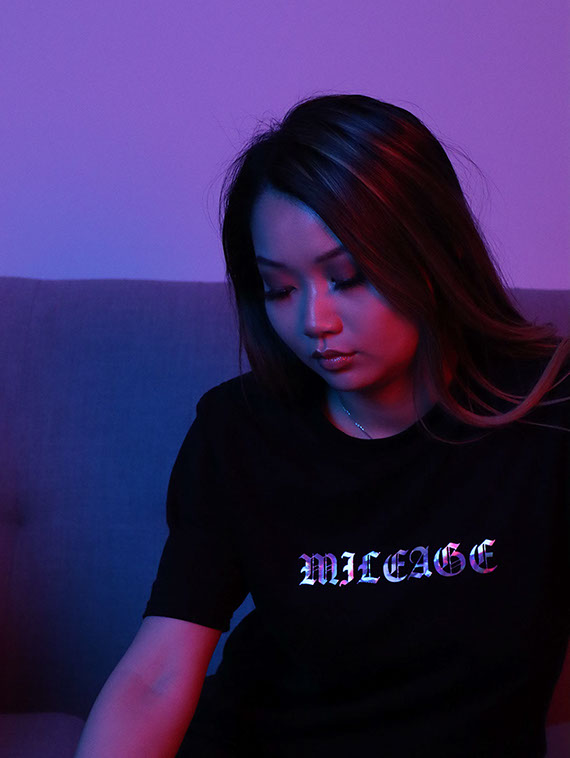
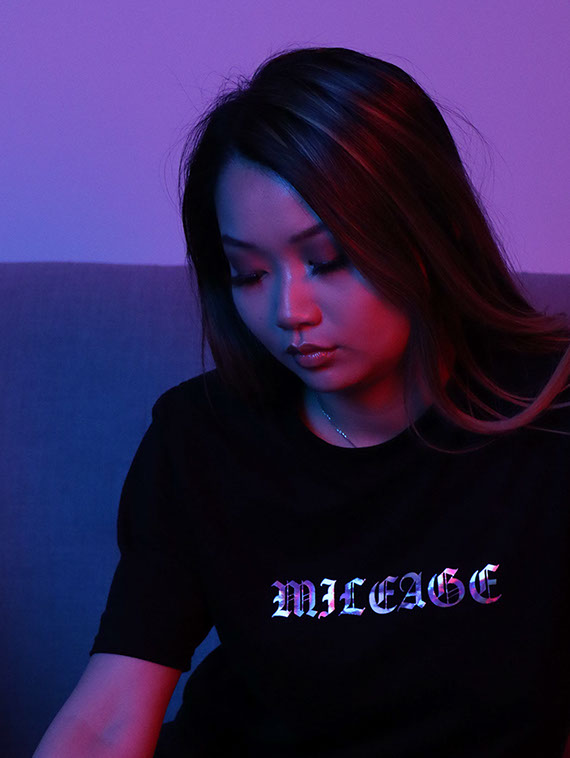
Home Fix

diff --git a/css/index.css b/css/index.css
@@ -1,1 +1,1 @@
-.version.index{color:#0000EA;background-color:#AF20EF;}#page{background-color:transparent;background-image:none;border-width:0px;z-index:1;width:100%;margin-left:auto;border-color:#000000;margin-right:auto;}#u353{position:relative;z-index:2;}#u1347{z-index:22;position:relative;height:1px;}#pu6452{z-index:4;}#u6452{margin-right:-10000px;position:relative;z-index:4;}#u1146-4{position:relative;z-index:5;}#u1163{z-index:9;position:relative;height:3px;}.ie #u1163{-ms-filter:"progid:DXImageTransform.Microsoft.Alpha(Opacity=1)";background-color:#FFFFFF;filter:alpha(opacity=1);opacity:0.01;}#u1163.MuseLinkActive{min-height:0px;margin-top:0px;margin-right:0px;margin-left:0%;height:3px;}#u6436{margin-right:-10000px;position:relative;z-index:10;}#u1078-4{position:relative;z-index:11;}#u1186{z-index:15;position:relative;height:3px;}.ie #u1186{-ms-filter:"progid:DXImageTransform.Microsoft.Alpha(Opacity=1)";background-color:#FFFFFF;filter:alpha(opacity=1);opacity:0.01;}#u1186.MuseLinkActive{min-height:0px;margin-top:0px;margin-right:0px;margin-left:0%;height:3px;}#u6444{margin-right:-10000px;position:relative;z-index:16;}#u1112-4{position:relative;z-index:17;}#u1220{z-index:21;position:relative;height:3px;}.ie #u1220{-ms-filter:"progid:DXImageTransform.Microsoft.Alpha(Opacity=1)";background-color:#FFFFFF;filter:alpha(opacity=1);opacity:0.01;}#u1220.MuseLinkActive{min-height:0px;margin-top:0px;margin-right:0px;margin-left:0%;height:3px;}.ie #u1163.MuseLinkActive,.ie #u1186.MuseLinkActive,.ie #u1220.MuseLinkActive{-ms-filter:"progid:DXImageTransform.Microsoft.Alpha(Opacity=100)";filter:alpha(opacity=100);opacity:1;}.SSFirstButton,.SSPreviousButton,.SSNextButton,.SSLastButton,.SSSlideLink,.SSCloseButton{cursor:pointer;}.SSSlideLoading{background:url("../images/loading.gif?crc=3815509949") no-repeat center center;}#u12811-7{background-color:transparent;position:relative;z-index:52;font-weight:bold;margin-right:-10000px;font-family:Helvetica, Helvetica Neue, Arial, sans-serif;letter-spacing:0px;text-align:center;color:#FFFFFF;font-style:italic;}#u7221{background-color:#FFFFFF;z-index:51;position:relative;height:1px;}#u6995-8{font-family:Helvetica, Helvetica Neue, Arial, sans-serif;min-height:77px;background-color:transparent;color:#FFFFFF;z-index:43;position:relative;text-align:center;}#u6995-2{font-size:16px;font-style:italic;}#u6995-5{font-size:16px;}#u6995-3{font-weight:bold;}#u6995-6{font-size:14px;font-style:italic;}#u2530-4{margin-right:-10000px;margin-left:50%;position:relative;z-index:23;}#u2565-4{margin-right:-10000px;margin-left:50%;position:relative;z-index:27;}#u2607-4{margin-right:-10000px;width:80px;margin-left:50%;position:relative;z-index:31;}.html{background-color:#080808;}body{position:relative;}@media (min-width: 769px), print{#muse_css_mq{background-color:#FFFFFF;}#bp_infinity.active{display:block;}#page{min-height:863px;padding-bottom:37px;max-width:1080px;}#pu353{z-index:2;padding-bottom:0px;margin-right:-10000px;width:90.65%;}#u353{width:864px;margin-left:55.16%;left:-433px;}#u1347{top:-1px;margin-bottom:-1px;width:99.9%;left:0%;margin-left:5.21%;}#pu6452{margin-top:25px;width:70.18%;left:0%;margin-left:20.13%;}#u6452{width:160px;margin-top:1px;}#u1163{width:160px;top:-3px;margin-bottom:-3px;}#u6436{width:160px;margin-top:1px;left:38.29%;}#u1186{width:160px;top:-3px;margin-bottom:-3px;}#u6444{width:160px;left:76.72%;}#u1146-4,#u1078-4,#u1112-4{width:159px;min-height:26px;margin-left:0.63%;}#u1220{width:160px;top:-3px;margin-bottom:-3px;}#u1163.MuseLinkActive,#u1186.MuseLinkActive,#u1220.MuseLinkActive{margin-bottom:-3px;width:160px;}#pslideshowu14843{z-index:35;margin-top:31px;width:100%;margin-left:5.16%;}#slideshowu14843{z-index:35;position:relative;margin-right:-10000px;width:100%;margin-left:0%;left:0.49999999999992184px;}#u14850{position:absolute;background-color:transparent;width:100%;}#u14850popup{z-index:36;height:575px;margin-right:-10000px;width:100%;}#u14851{z-index:37;min-height:5px;border-width:0px;border-color:transparent;background-color:#4F4F4F;margin-right:-10000px;position:relative;width:100%;}#u15001{z-index:39;min-height:5px;border-width:0px;border-color:transparent;background-color:#4F4F4F;margin-right:-10000px;position:relative;width:100%;}#u15076{z-index:41;min-height:5px;border-width:0px;border-color:transparent;background-color:#4F4F4F;margin-right:-10000px;position:relative;width:100%;}#u14851_img,#u15001_img,#u15076_img{width:100%;}#u12811-7{width:882px;min-height:162px;line-height:53px;font-size:44px;margin-top:227px;margin-left:50%;left:-441.50000000000006px;}#u7221{margin-top:42px;width:99.9%;left:0%;margin-left:5.21%;}#u6995-8{width:580px;margin-top:38px;margin-left:55.16%;left:-291px;}#u6995-2,#u6995-5{line-height:19px;}.css_verticalspacer .verticalspacer{height:calc(100vh - 981px);}#u2530-4{width:95px;min-height:17px;margin-top:33px;left:-256px;}#u2565-4{width:162px;min-height:17px;margin-top:33px;left:-77px;}#u2607-4{min-height:17px;margin-top:33px;left:176px;}.verticalspacer{min-height:1px;}}@media (min-width: 569px) and (max-width: 768px){#muse_css_mq{background-color:#000300;}#bp_768.active{display:block;}#page{min-height:477px;padding-bottom:23px;max-width:768px;}#pu353{z-index:2;padding-bottom:0px;margin-right:-10000px;width:112.5%;}#u353{width:864px;margin-left:44.45%;left:-432px;}#u1347{top:-1px;margin-bottom:-1px;width:80.56%;left:0%;margin-left:4.17%;}#pu6452{margin-top:17px;width:60.07%;left:0%;margin-left:14.47%;}#u6452{width:131px;}#u1163{width:130px;top:-3px;margin-bottom:-3px;}#u6436{width:131px;left:37.38%;}#u1186{width:130px;top:-3px;margin-bottom:-3px;}#u6444{width:131px;left:74.76%;}#u1146-4,#u1078-4,#u1112-4{width:130px;min-height:24px;margin-left:0.77%;}#u1220{width:130px;top:-3px;margin-bottom:-3px;}#u1163.MuseLinkActive,#u1186.MuseLinkActive,#u1220.MuseLinkActive{margin-bottom:-3px;width:130px;}#pslideshowu14843{z-index:35;margin-top:41px;width:80.56%;margin-left:4.17%;}#slideshowu14843{z-index:35;position:relative;margin-right:-10000px;width:100%;margin-left:0%;left:-1.4210854715202004e-14px;}#u14850{position:absolute;background-color:transparent;width:100%;}#u14850popup{z-index:36;height:409px;margin-right:-10000px;width:100%;}#u14851{z-index:37;min-height:5px;border-width:0px;border-color:transparent;background-color:#4F4F4F;margin-right:-10000px;position:relative;width:100%;}#u15001{z-index:39;min-height:5px;border-width:0px;border-color:transparent;background-color:#4F4F4F;margin-right:-10000px;position:relative;width:100%;}#u15076{z-index:41;min-height:5px;border-width:0px;border-color:transparent;background-color:#4F4F4F;margin-right:-10000px;position:relative;width:100%;}#u14851_img,#u15001_img,#u15076_img{width:100%;}#u12811-7{width:627px;min-height:116px;line-height:38px;font-size:32px;margin-top:156px;margin-left:50%;left:-314px;}#u7221{margin-top:39px;width:80.56%;margin-left:4.17%;left:0px;}#u6995-8{width:580px;margin-top:38px;margin-left:44.45%;left:-290px;}#u6995-2,#u6995-5{line-height:19px;}.css_verticalspacer .verticalspacer{height:calc(100vh - 787px);}#u2530-4{width:95px;min-height:15px;margin-top:24px;left:-242px;}#u2565-4{width:146px;min-height:15px;margin-top:24px;left:-69px;}#u2607-4{min-height:15px;margin-top:24px;left:162px;}body{overflow-x:hidden;}.verticalspacer{min-height:1px;}}@media (min-width: 415px) and (max-width: 568px){#muse_css_mq{background-color:#000238;}#bp_568.active{display:block;}#page{min-height:466px;padding-bottom:34px;max-width:568px;}#pu353{z-index:2;padding-bottom:0px;margin-right:-10000px;margin-top:10px;width:114.09%;}#u353{width:648px;margin-left:43.83%;left:-324px;}#u1347{margin-top:9px;width:79.33%;left:0%;margin-left:4.17%;}#pu6452{margin-top:17px;width:68.68%;left:0%;margin-left:9.57%;}#u6452,#u1163{width:97px;}#u6436{width:97px;left:39.11%;}#u1186{width:97px;}#u6444{width:97px;left:78.21%;}#u1146-4,#u1078-4,#u1112-4{width:97px;min-height:17px;}#u1220{width:97px;}#u1163.MuseLinkActive,#u1186.MuseLinkActive,#u1220.MuseLinkActive{margin-bottom:0px;width:97px;}#pslideshowu15272{z-index:35;margin-top:16px;width:78.09%;margin-left:4.79%;}#slideshowu15272{z-index:35;position:relative;margin-right:-10000px;width:100%;margin-left:0%;left:1.0658141036401503e-14px;}#u15279{position:absolute;background-color:transparent;width:100%;}#u15279popup{z-index:36;height:674px;margin-right:-10000px;width:100%;}#u15280{z-index:37;min-height:5px;border-width:0px;border-color:transparent;background-color:#4F4F4F;margin-right:-10000px;position:relative;width:100%;}#u15280_img{width:100.2%;}#u15423{z-index:39;min-height:5px;border-width:0px;border-color:transparent;background-color:#4F4F4F;margin-right:-10000px;position:relative;width:56.13%;}#u15510{z-index:41;min-height:5px;border-width:0px;border-color:transparent;background-color:#4F4F4F;margin-right:-10000px;position:relative;width:56.13%;}#u15423_img,#u15510_img{width:100%;}#u12811-7{width:464px;min-height:155px;line-height:38px;font-size:32px;margin-top:271px;margin-left:50%;left:-232px;}#u7221{margin-top:38px;width:79.33%;margin-left:4.17%;left:0px;}#u6995-8{width:368px;margin-top:28px;margin-left:43.83%;left:-184px;}#u6995-2,#u6995-5{line-height:19px;}.css_verticalspacer .verticalspacer{height:calc(100vh - 1012px);}#u2530-4{width:95px;min-height:13px;margin-top:15px;left:-172px;}#u2565-4{width:114px;min-height:13px;margin-top:15px;left:-58px;}#u2607-4{min-height:13px;margin-top:15px;left:82px;}body{overflow-x:hidden;}.verticalspacer{min-height:1px;}}@media (min-width: 376px) and (max-width: 414px){#muse_css_mq{background-color:#00019e;}#bp_414.active{display:block;}#page{min-height:726.6574074074074px;padding-bottom:0px;max-width:414px;}#page_position_content{padding-top:11px;padding-bottom:33px;width:100%;}#u353{width:434px;margin-left:50%;left:-217px;}#u1347{margin-top:9px;width:90.34%;margin-left:4.84%;}#pu6452{margin-top:17px;width:86.24%;margin-left:6.77%;}#u6452,#u1163{width:97px;}#u6436{width:97px;left:36.42%;}#u1186{width:97px;}#u6444{width:97px;left:72.83%;}#u1146-4,#u1078-4,#u1112-4{width:97px;min-height:17px;}#u1220{width:97px;}#u1163.MuseLinkActive,#u1186.MuseLinkActive,#u1220.MuseLinkActive{margin-bottom:0px;width:97px;}#pslideshowu15272{z-index:35;margin-top:22px;width:89.14%;margin-left:5.44%;}#slideshowu15272{z-index:35;position:relative;margin-right:-10000px;width:100%;margin-left:0%;left:-0.5000000000000071px;}#u15279{position:absolute;background-color:transparent;width:100%;}#u15279popup{z-index:36;height:491px;margin-right:-10000px;width:100%;}#u15280{z-index:37;min-height:5px;border-width:0px;border-color:transparent;background-color:#4F4F4F;margin-right:-10000px;position:relative;width:100%;}#u15423{z-index:39;min-height:5px;border-width:0px;border-color:transparent;background-color:#4F4F4F;margin-right:-10000px;position:relative;width:100%;}#u15510{z-index:41;min-height:5px;border-width:0px;border-color:transparent;background-color:#4F4F4F;margin-right:-10000px;position:relative;width:100%;}#u15280_img,#u15423_img,#u15510_img{width:100%;}#u12811-7{width:338px;min-height:119px;line-height:29px;font-size:24px;margin-top:197px;margin-left:50%;left:-169.5px;}#u7221{margin-top:31px;width:90.34%;margin-left:4.84%;}#u6995-8{margin-top:28px;width:74.16%;margin-left:12.81%;}#u6995-2,#u6995-5{line-height:0px;}#u6995,#u6995-3,#u6995-4{font-size:14px;line-height:17px;}#pu2530-4{z-index:23;margin-top:33px;width:80.68%;margin-left:9.67%;}#u2530-4{width:95px;min-height:13px;left:-172px;}#u2565-4{width:114px;min-height:13px;left:-57.99999999999999px;}#u2607-4{min-height:13px;left:82px;}body{overflow-x:hidden;}}@media (min-width: 321px) and (max-width: 375px){#muse_css_mq{background-color:#000177;}#bp_375.active{display:block;}#page{min-height:717px;padding-bottom:19px;max-width:375px;}#pu353{z-index:2;padding-bottom:0px;margin-right:-10000px;margin-top:11px;width:115.74%;}#u353{width:434px;margin-left:43.21%;left:-218px;}#u1347{margin-top:9px;width:78.35%;left:0%;margin-left:4.15%;}#pu6452{margin-top:17px;width:75.58%;left:0%;margin-left:5.3%;}#u6452,#u1163{width:92px;}#u6436{width:92px;left:35.98%;}#u1186{width:92px;}#u6444{width:92px;left:71.96%;}#u1146-4,#u1078-4,#u1112-4{width:92px;min-height:17px;}#u1220{width:92px;}#u1163.MuseLinkActive,#u1186.MuseLinkActive,#u1220.MuseLinkActive{margin-bottom:0px;width:92px;}#pslideshowu15272{z-index:35;margin-top:16px;width:76.96%;}#slideshowu15272{z-index:35;position:relative;margin-right:-10000px;width:100%;left:0%;margin-left:5.09%;}#u15279{position:absolute;background-color:transparent;width:100%;margin-left:0%;left:0px;}#u15279popup{z-index:36;height:445px;margin-right:-10000px;width:100%;margin-left:0%;}#u15280{z-index:37;min-height:5px;border-width:0px;border-color:transparent;background-color:#4F4F4F;margin-right:-10000px;position:relative;width:100%;margin-left:0%;left:0px;}#u15280_img{width:100.3%;}#u15423{z-index:39;min-height:5px;border-width:0px;border-color:transparent;background-color:#4F4F4F;margin-right:-10000px;position:relative;width:59.89%;margin-left:20.06%;left:-67px;}#u15510{z-index:41;min-height:5px;border-width:0px;border-color:transparent;background-color:#4F4F4F;margin-right:-10000px;position:relative;width:59.89%;margin-left:20.06%;left:-67px;}#u15423_img,#u15510_img{width:100%;}#u12811-7{width:306px;min-height:106px;line-height:26px;font-size:22px;margin-top:180px;margin-left:56.14%;left:-153px;}#u7221{margin-top:27px;width:78.12%;left:0%;margin-left:4.15%;}#u6995-8{margin-top:27px;width:72.59%;left:0%;margin-left:6.69%;}#u6995-2,#u6995-5{line-height:0px;}#u6995,#u6995-3,#u6995-4{font-size:14px;line-height:17px;}.css_verticalspacer .verticalspacer{height:calc(100vh - 739px);}#u2530-4{width:95px;min-height:13px;margin-top:18px;left:-161px;}#u2565-4{width:120px;min-height:13px;margin-top:18px;left:-57px;}#u2607-4{min-height:13px;margin-top:18px;left:81px;}body{overflow-x:hidden;}.verticalspacer{min-height:1px;}}@media (max-width: 320px){#muse_css_mq{background-color:#000140;}#bp_320.active{display:block;}#page{min-height:550px;padding-bottom:18px;max-width:320px;}#pu353{z-index:2;margin-right:-10000px;margin-top:11px;width:135.63%;}#u353{width:434px;margin-left:36.87%;left:-217px;}#u1347{margin-top:9px;width:66.83%;left:0%;margin-left:3.46%;}#pu6452{margin-top:17px;width:65.9%;left:0%;margin-left:3.92%;}#u6452,#u1163{width:85px;}#u6436{width:85px;left:35.32%;}#u1186{width:85px;}#u6444{width:85px;left:70.28%;}#u1146-4,#u1078-4,#u1112-4{width:85px;min-height:17px;}#u1220{width:85px;}#u1163.MuseLinkActive,#u1186.MuseLinkActive,#u1220.MuseLinkActive{margin-bottom:0px;width:85px;}#pslideshowu15272{z-index:35;margin-top:16px;width:65.67%;margin-left:4.04%;}#slideshowu15272{z-index:35;position:relative;margin-right:-10000px;width:100%;margin-left:0%;left:-0.4999999999999858px;}#u15279{position:absolute;background-color:transparent;width:100%;}#u15279popup{z-index:36;height:379px;margin-right:-10000px;width:100%;}#u15280{z-index:37;min-height:5px;border-width:0px;border-color:transparent;background-color:#4F4F4F;margin-right:-10000px;position:relative;width:100%;}#u15423{z-index:39;min-height:5px;border-width:0px;border-color:transparent;background-color:#4F4F4F;margin-right:-10000px;position:relative;width:100%;}#u15510{z-index:41;min-height:5px;border-width:0px;border-color:transparent;background-color:#4F4F4F;margin-right:-10000px;position:relative;width:100%;}#u15280_img,#u15423_img,#u15510_img{width:100%;}#u12811-7{width:279px;min-height:98px;line-height:24px;font-size:20px;margin-top:150px;margin-left:50%;left:-140.5px;}#u7221{margin-top:31px;width:66.59%;left:0%;margin-left:3.46%;}#u6995-8{margin-top:29px;width:64.52%;left:0%;margin-left:4.61%;}#u6995-2,#u6995-5{line-height:0px;}#u6995,#u6995-3,#u6995-4{font-size:14px;line-height:17px;}.css_verticalspacer .verticalspacer{height:calc(100vh - 679px);}#u2530-4{width:80px;min-height:13px;margin-top:19px;left:-139px;}#u2565-4{width:104px;min-height:13px;margin-top:19px;left:-52px;}#u2607-4{min-height:13px;margin-top:19px;left:59px;}body{overflow-x:hidden;min-width:320px;}.verticalspacer{min-height:1px;}}
+.version.index{color:#000002;background-color:#E7E4A9;}#page{background-color:transparent;background-image:none;border-width:0px;z-index:1;width:100%;margin-left:auto;border-color:#000000;margin-right:auto;}#u353{position:relative;z-index:2;}#u1347{z-index:22;position:relative;height:1px;}#pu6452{z-index:4;}#u6452{margin-right:-10000px;position:relative;z-index:4;}#u1146-4{position:relative;z-index:5;}#u1163{z-index:9;position:relative;height:3px;}.ie #u1163{-ms-filter:"progid:DXImageTransform.Microsoft.Alpha(Opacity=1)";background-color:#FFFFFF;filter:alpha(opacity=1);opacity:0.01;}#u1163.MuseLinkActive{min-height:0px;margin-top:0px;margin-right:0px;margin-left:0%;height:3px;}#u6436{margin-right:-10000px;position:relative;z-index:10;}#u1078-4{position:relative;z-index:11;}#u1186{z-index:15;position:relative;height:3px;}.ie #u1186{-ms-filter:"progid:DXImageTransform.Microsoft.Alpha(Opacity=1)";background-color:#FFFFFF;filter:alpha(opacity=1);opacity:0.01;}#u1186.MuseLinkActive{min-height:0px;margin-top:0px;margin-right:0px;margin-left:0%;height:3px;}#u6444{margin-right:-10000px;position:relative;z-index:16;}#u1112-4{position:relative;z-index:17;}#u1220{z-index:21;position:relative;height:3px;}.ie #u1220{-ms-filter:"progid:DXImageTransform.Microsoft.Alpha(Opacity=1)";background-color:#FFFFFF;filter:alpha(opacity=1);opacity:0.01;}#u1220.MuseLinkActive{min-height:0px;margin-top:0px;margin-right:0px;margin-left:0%;height:3px;}.ie #u1163.MuseLinkActive,.ie #u1186.MuseLinkActive,.ie #u1220.MuseLinkActive{-ms-filter:"progid:DXImageTransform.Microsoft.Alpha(Opacity=100)";filter:alpha(opacity=100);opacity:1;}.SSFirstButton,.SSPreviousButton,.SSNextButton,.SSLastButton,.SSSlideLink,.SSCloseButton{cursor:pointer;}.SSSlideLoading{background:url("../images/loading.gif?crc=3815509949") no-repeat center center;}#u12811-7{background-color:transparent;position:relative;z-index:52;font-weight:bold;margin-right:-10000px;font-family:Helvetica, Helvetica Neue, Arial, sans-serif;letter-spacing:0px;text-align:center;color:#FFFFFF;font-style:italic;}#u7221{background-color:#FFFFFF;z-index:51;position:relative;height:1px;}#u6995-8{font-family:Helvetica, Helvetica Neue, Arial, sans-serif;min-height:77px;background-color:transparent;color:#FFFFFF;z-index:43;position:relative;text-align:center;}#u6995-2{font-size:16px;font-style:italic;}#u6995-5{font-size:16px;}#u6995-3{font-weight:bold;}#u6995-6{font-size:14px;font-style:italic;}#u2530-4{margin-right:-10000px;margin-left:50%;position:relative;z-index:23;}#u2565-4{margin-right:-10000px;margin-left:50%;position:relative;z-index:27;}#u2607-4{margin-right:-10000px;width:80px;margin-left:50%;position:relative;z-index:31;}.html{background-color:#080808;}body{position:relative;}@media (min-width: 769px), print{#muse_css_mq{background-color:#FFFFFF;}#bp_infinity.active{display:block;}#page{min-height:863px;padding-bottom:37px;max-width:1080px;}#pu353{z-index:2;padding-bottom:0px;margin-right:-10000px;width:90.65%;}#u353{width:864px;margin-left:55.16%;left:-433px;}#u1347{top:-1px;margin-bottom:-1px;width:99.9%;left:0%;margin-left:5.21%;}#pu6452{margin-top:25px;width:70.18%;left:0%;margin-left:20.13%;}#u6452{width:160px;margin-top:1px;}#u1163{width:160px;top:-3px;margin-bottom:-3px;}#u6436{width:160px;margin-top:1px;left:38.29%;}#u1186{width:160px;top:-3px;margin-bottom:-3px;}#u6444{width:160px;left:76.72%;}#u1146-4,#u1078-4,#u1112-4{width:159px;min-height:26px;margin-left:0.63%;}#u1220{width:160px;top:-3px;margin-bottom:-3px;}#u1163.MuseLinkActive,#u1186.MuseLinkActive,#u1220.MuseLinkActive{margin-bottom:-3px;width:160px;}#pslideshowu14843{z-index:35;margin-top:31px;width:100%;margin-left:5.16%;}#slideshowu14843{z-index:35;position:relative;margin-right:-10000px;width:100%;margin-left:0%;left:0.49999999999992184px;}#u14850{position:absolute;background-color:transparent;width:100%;}#u14850popup{z-index:36;height:575px;margin-right:-10000px;width:100%;}#u14851{z-index:37;min-height:5px;border-width:0px;border-color:transparent;background-color:#4F4F4F;margin-right:-10000px;position:relative;width:100%;}#u15001{z-index:39;min-height:5px;border-width:0px;border-color:transparent;background-color:#4F4F4F;margin-right:-10000px;position:relative;width:100%;}#u15076{z-index:41;min-height:5px;border-width:0px;border-color:transparent;background-color:#4F4F4F;margin-right:-10000px;position:relative;width:100%;}#u14851_img,#u15001_img,#u15076_img{width:100%;}#u12811-7{width:882px;min-height:162px;line-height:53px;font-size:44px;margin-top:227px;margin-left:50%;left:-441.50000000000006px;}#u7221{margin-top:42px;width:99.9%;left:0%;margin-left:5.21%;}#u6995-8{width:580px;margin-top:38px;margin-left:55.16%;left:-291px;}#u6995-2,#u6995-5{line-height:19px;}.css_verticalspacer .verticalspacer{height:calc(100vh - 981px);}#u2530-4{width:95px;min-height:17px;margin-top:33px;left:-256px;}#u2565-4{width:162px;min-height:17px;margin-top:33px;left:-77px;}#u2607-4{min-height:17px;margin-top:33px;left:176px;}.verticalspacer{min-height:1px;}}@media (min-width: 569px) and (max-width: 768px){#muse_css_mq{background-color:#000300;}#bp_768.active{display:block;}#page{min-height:477px;padding-bottom:23px;max-width:768px;}#pu353{z-index:2;padding-bottom:0px;margin-right:-10000px;width:112.5%;}#u353{width:864px;margin-left:44.45%;left:-432px;}#u1347{top:-1px;margin-bottom:-1px;width:80.56%;left:0%;margin-left:4.17%;}#pu6452{margin-top:17px;width:60.07%;left:0%;margin-left:14.47%;}#u6452{width:131px;}#u1163{width:130px;top:-3px;margin-bottom:-3px;}#u6436{width:131px;left:37.38%;}#u1186{width:130px;top:-3px;margin-bottom:-3px;}#u6444{width:131px;left:74.76%;}#u1146-4,#u1078-4,#u1112-4{width:130px;min-height:24px;margin-left:0.77%;}#u1220{width:130px;top:-3px;margin-bottom:-3px;}#u1163.MuseLinkActive,#u1186.MuseLinkActive,#u1220.MuseLinkActive{margin-bottom:-3px;width:130px;}#pslideshowu14843{z-index:35;margin-top:41px;width:80.56%;margin-left:4.17%;}#slideshowu14843{z-index:35;position:relative;margin-right:-10000px;width:100%;margin-left:0%;left:-1.4210854715202004e-14px;}#u14850{position:absolute;background-color:transparent;width:100%;}#u14850popup{z-index:36;height:409px;margin-right:-10000px;width:100%;}#u14851{z-index:37;min-height:5px;border-width:0px;border-color:transparent;background-color:#4F4F4F;margin-right:-10000px;position:relative;width:100%;}#u15001{z-index:39;min-height:5px;border-width:0px;border-color:transparent;background-color:#4F4F4F;margin-right:-10000px;position:relative;width:100%;}#u15076{z-index:41;min-height:5px;border-width:0px;border-color:transparent;background-color:#4F4F4F;margin-right:-10000px;position:relative;width:100%;}#u14851_img,#u15001_img,#u15076_img{width:100%;}#u12811-7{width:627px;min-height:116px;line-height:38px;font-size:32px;margin-top:156px;margin-left:50%;left:-314px;}#u7221{margin-top:39px;width:80.56%;margin-left:4.17%;left:0px;}#u6995-8{width:580px;margin-top:38px;margin-left:44.45%;left:-290px;}#u6995-2,#u6995-5{line-height:19px;}.css_verticalspacer .verticalspacer{height:calc(100vh - 787px);}#u2530-4{width:95px;min-height:15px;margin-top:24px;left:-242px;}#u2565-4{width:146px;min-height:15px;margin-top:24px;left:-69px;}#u2607-4{min-height:15px;margin-top:24px;left:162px;}body{overflow-x:hidden;}.verticalspacer{min-height:1px;}}@media (min-width: 415px) and (max-width: 568px){#muse_css_mq{background-color:#000238;}#bp_568.active{display:block;}#page{min-height:466px;padding-bottom:34px;max-width:568px;}#pu353{z-index:2;padding-bottom:0px;margin-right:-10000px;margin-top:10px;width:114.09%;}#u353{width:648px;margin-left:43.83%;left:-324px;}#u1347{margin-top:9px;width:79.33%;left:0%;margin-left:4.17%;}#pu6452{margin-top:17px;width:68.68%;left:0%;margin-left:9.57%;}#u6452,#u1163{width:97px;}#u6436{width:97px;left:39.11%;}#u1186{width:97px;}#u6444{width:97px;left:78.21%;}#u1146-4,#u1078-4,#u1112-4{width:97px;min-height:17px;}#u1220{width:97px;}#u1163.MuseLinkActive,#u1186.MuseLinkActive,#u1220.MuseLinkActive{margin-bottom:0px;width:97px;}#pslideshowu15272{z-index:35;margin-top:16px;width:78.09%;margin-left:4.79%;}#slideshowu15272{z-index:35;position:relative;margin-right:-10000px;width:100%;margin-left:0%;left:1.0658141036401503e-14px;}#u15279{position:absolute;background-color:transparent;width:100%;}#u15279popup{z-index:36;height:674px;margin-right:-10000px;width:100%;}#u15280{z-index:37;min-height:5px;border-width:0px;border-color:transparent;background-color:#4F4F4F;margin-right:-10000px;position:relative;width:100%;}#u15423{z-index:39;min-height:5px;border-width:0px;border-color:transparent;background-color:#4F4F4F;margin-right:-10000px;position:relative;width:100%;}#u15510{z-index:41;min-height:5px;border-width:0px;border-color:transparent;background-color:#4F4F4F;margin-right:-10000px;position:relative;width:100%;}#u15280_img,#u15423_img,#u15510_img{width:100%;}#u12811-7{width:464px;min-height:155px;line-height:38px;font-size:32px;margin-top:271px;margin-left:50%;left:-232px;}#u7221{margin-top:38px;width:79.33%;margin-left:4.17%;left:0px;}#u6995-8{width:368px;margin-top:28px;margin-left:43.83%;left:-184px;}#u6995-2,#u6995-5{line-height:19px;}.css_verticalspacer .verticalspacer{height:calc(100vh - 1012px);}#u2530-4{width:95px;min-height:13px;margin-top:15px;left:-172px;}#u2565-4{width:114px;min-height:13px;margin-top:15px;left:-58px;}#u2607-4{min-height:13px;margin-top:15px;left:82px;}body{overflow-x:hidden;}.verticalspacer{min-height:1px;}}@media (min-width: 376px) and (max-width: 414px){#muse_css_mq{background-color:#00019e;}#bp_414.active{display:block;}#page{min-height:726.6574074074074px;padding-bottom:0px;max-width:414px;}#page_position_content{padding-top:11px;padding-bottom:33px;width:100%;}#u353{width:434px;margin-left:50%;left:-217px;}#u1347{margin-top:9px;width:90.34%;margin-left:4.84%;}#pu6452{margin-top:17px;width:86.24%;margin-left:6.77%;}#u6452,#u1163{width:97px;}#u6436{width:97px;left:36.42%;}#u1186{width:97px;}#u6444{width:97px;left:72.83%;}#u1146-4,#u1078-4,#u1112-4{width:97px;min-height:17px;}#u1220{width:97px;}#u1163.MuseLinkActive,#u1186.MuseLinkActive,#u1220.MuseLinkActive{margin-bottom:0px;width:97px;}#pslideshowu15272{z-index:35;margin-top:22px;width:89.14%;margin-left:5.44%;}#slideshowu15272{z-index:35;position:relative;margin-right:-10000px;width:100%;margin-left:0%;left:-0.5000000000000071px;}#u15279{position:absolute;background-color:transparent;width:100%;}#u15279popup{z-index:36;height:491px;margin-right:-10000px;width:100%;}#u15280{z-index:37;min-height:5px;border-width:0px;border-color:transparent;background-color:#4F4F4F;margin-right:-10000px;position:relative;width:100%;}#u15423{z-index:39;min-height:5px;border-width:0px;border-color:transparent;background-color:#4F4F4F;margin-right:-10000px;position:relative;width:100%;}#u15510{z-index:41;min-height:5px;border-width:0px;border-color:transparent;background-color:#4F4F4F;margin-right:-10000px;position:relative;width:100%;}#u15280_img,#u15423_img,#u15510_img{width:100%;}#u12811-7{width:338px;min-height:119px;line-height:29px;font-size:24px;margin-top:197px;margin-left:50%;left:-169.5px;}#u7221{margin-top:31px;width:90.34%;margin-left:4.84%;}#u6995-8{margin-top:28px;width:74.16%;margin-left:12.81%;}#u6995-2,#u6995-5{line-height:0px;}#u6995,#u6995-3,#u6995-4{font-size:14px;line-height:17px;}#pu2530-4{z-index:23;margin-top:33px;width:80.68%;margin-left:9.67%;}#u2530-4{width:95px;min-height:13px;left:-172px;}#u2565-4{width:114px;min-height:13px;left:-57.99999999999999px;}#u2607-4{min-height:13px;left:82px;}body{overflow-x:hidden;}}@media (min-width: 321px) and (max-width: 375px){#muse_css_mq{background-color:#000177;}#bp_375.active{display:block;}#page{min-height:717px;padding-bottom:19px;max-width:375px;}#pu353{z-index:2;padding-bottom:0px;margin-right:-10000px;margin-top:11px;width:115.74%;}#u353{width:434px;margin-left:43.21%;left:-218px;}#u1347{margin-top:9px;width:78.35%;left:0%;margin-left:4.15%;}#pu6452{margin-top:17px;width:75.58%;left:0%;margin-left:5.3%;}#u6452,#u1163{width:92px;}#u6436{width:92px;left:35.98%;}#u1186{width:92px;}#u6444{width:92px;left:71.96%;}#u1146-4,#u1078-4,#u1112-4{width:92px;min-height:17px;}#u1220{width:92px;}#u1163.MuseLinkActive,#u1186.MuseLinkActive,#u1220.MuseLinkActive{margin-bottom:0px;width:92px;}#pslideshowu15272{z-index:35;margin-top:16px;width:76.96%;}#slideshowu15272{z-index:35;position:relative;margin-right:-10000px;width:100%;left:0%;margin-left:5.99%;}#u15279{position:absolute;background-color:transparent;width:100%;margin-left:0%;left:0px;}#u15279popup{z-index:36;height:445px;margin-right:-10000px;width:100%;margin-left:0%;}#u15280{z-index:37;min-height:5px;border-width:0px;border-color:transparent;background-color:#4F4F4F;margin-right:-10000px;position:relative;width:100%;margin-left:0%;left:0px;}#u15423{z-index:39;min-height:5px;border-width:0px;border-color:transparent;background-color:#4F4F4F;margin-right:-10000px;position:relative;width:100%;margin-left:0%;left:0px;}#u15510{z-index:41;min-height:5px;border-width:0px;border-color:transparent;background-color:#4F4F4F;margin-right:-10000px;position:relative;width:100%;margin-left:0%;left:0px;}#u15280_img,#u15423_img,#u15510_img{width:100%;}#u12811-7{width:306px;min-height:106px;line-height:26px;font-size:22px;margin-top:180px;margin-left:56.14%;left:-153px;}#u7221{margin-top:27px;width:78.12%;left:0%;margin-left:4.15%;}#u6995-8{margin-top:27px;width:72.59%;left:0%;margin-left:6.69%;}#u6995-2,#u6995-5{line-height:0px;}#u6995,#u6995-3,#u6995-4{font-size:14px;line-height:17px;}.css_verticalspacer .verticalspacer{height:calc(100vh - 739px);}#u2530-4{width:95px;min-height:13px;margin-top:18px;left:-161px;}#u2565-4{width:120px;min-height:13px;margin-top:18px;left:-57px;}#u2607-4{min-height:13px;margin-top:18px;left:81px;}body{overflow-x:hidden;}.verticalspacer{min-height:1px;}}@media (max-width: 320px){#muse_css_mq{background-color:#000140;}#bp_320.active{display:block;}#page{min-height:550px;padding-bottom:18px;max-width:320px;}#pu353{z-index:2;margin-right:-10000px;margin-top:11px;width:135.63%;}#u353{width:434px;margin-left:36.87%;left:-217px;}#u1347{margin-top:9px;width:66.83%;left:0%;margin-left:3.46%;}#pu6452{margin-top:17px;width:65.9%;left:0%;margin-left:3.92%;}#u6452,#u1163{width:85px;}#u6436{width:85px;left:35.32%;}#u1186{width:85px;}#u6444{width:85px;left:70.28%;}#u1146-4,#u1078-4,#u1112-4{width:85px;min-height:17px;}#u1220{width:85px;}#u1163.MuseLinkActive,#u1186.MuseLinkActive,#u1220.MuseLinkActive{margin-bottom:0px;width:85px;}#pslideshowu15272{z-index:35;margin-top:16px;width:65.67%;margin-left:4.04%;}#slideshowu15272{z-index:35;position:relative;margin-right:-10000px;width:100%;margin-left:0%;left:-0.4999999999999858px;}#u15279{position:absolute;background-color:transparent;width:100%;}#u15279popup{z-index:36;height:379px;margin-right:-10000px;width:100%;}#u15280{z-index:37;min-height:5px;border-width:0px;border-color:transparent;background-color:#4F4F4F;margin-right:-10000px;position:relative;width:100%;}#u15423{z-index:39;min-height:5px;border-width:0px;border-color:transparent;background-color:#4F4F4F;margin-right:-10000px;position:relative;width:100%;}#u15510{z-index:41;min-height:5px;border-width:0px;border-color:transparent;background-color:#4F4F4F;margin-right:-10000px;position:relative;width:100%;}#u15280_img,#u15423_img,#u15510_img{width:100%;}#u12811-7{width:279px;min-height:98px;line-height:24px;font-size:20px;margin-top:150px;margin-left:50%;left:-140.5px;}#u7221{margin-top:31px;width:66.59%;left:0%;margin-left:3.46%;}#u6995-8{margin-top:29px;width:64.52%;left:0%;margin-left:4.61%;}#u6995-2,#u6995-5{line-height:0px;}#u6995,#u6995-3,#u6995-4{font-size:14px;line-height:17px;}.css_verticalspacer .verticalspacer{height:calc(100vh - 679px);}#u2530-4{width:80px;min-height:13px;margin-top:19px;left:-139px;}#u2565-4{width:104px;min-height:13px;margin-top:19px;left:-52px;}#u2607-4{min-height:13px;margin-top:19px;left:59px;}body{overflow-x:hidden;min-width:320px;}.verticalspacer{min-height:1px;}}

diff --git a/index.html b/index.html
@@ -19,7 +19,7 @@ if(typeof Muse == "undefined") window.Muse = {}; window.Muse.assets = {"required
   <!-- CSS -->
   <link rel="stylesheet" type="text/css" href="css/site_global.css?crc=390033707"/>
   <link rel="stylesheet" type="text/css" href="css/master_a-master.css?crc=4059248257"/>
-  <link rel="stylesheet" type="text/css" href="css/index.css?crc=3937345775" id="pagesheet"/>
+  <link rel="stylesheet" type="text/css" href="css/index.css?crc=48751785" id="pagesheet"/>
   <!-- IE-only CSS -->
   <!--[if lt IE 9]>
   <link rel="stylesheet" type="text/css" href="css/nomq_preview_master_a-master.css?crc=4286468103"/>
@@ -141,17 +141,17 @@ if(typeof Muse == "undefined") window.Muse = {}; window.Muse.assets = {"required
         <div class="SlideShowContentPanel clearfix" data-col-pos="0" id="u15279"><!-- stack box -->
          <!-- m_editable region-id="editable-static-tag-U15280-BP_568" template="index.html" data-type="image" data-ice-options="srcAttr=data-src" -->
          <div class="SSSlide clip_frame grpelem" data-col-pos="0" id="u15280" data-muse-uid="U15280" data-muse-type="img_frame"><!-- image -->
-          <img class="block ImageInclude" data-col-pos="0" id="u15280_img" data-src="images/img_1945-crop-u15280.jpg?crc=4288093297" data-hidpi-src="images/img_1945-crop-u15280_2x.jpg?crc=4099379049" src="images/blank.gif?crc=4208392903" alt="" data-muse-src="images/img_1945-crop-u15280.jpg?crc=4288093297" data-heightwidthratio="1.3293885601577908" data-image-width="507" data-image-height="674"/>
+          <img class="block ImageInclude" data-col-pos="0" id="u15280_img" data-src="images/img_1945-crop-u15280.jpg?crc=4126645955" data-hidpi-src="images/img_1945-crop-u15280_2x.jpg?crc=4053135314" src="images/blank.gif?crc=4208392903" alt="" data-muse-src="images/img_1945-crop-u15280.jpg?crc=4126645955" data-heightwidthratio="1.33201581027668" data-image-width="506" data-image-height="674"/>
          </div>
          <!-- /m_editable -->
          <!-- m_editable region-id="editable-static-tag-U15423-BP_568" template="index.html" data-type="image" data-ice-options="srcAttr=data-src" -->
          <div class="SSSlide invi clip_frame grpelem" data-col-pos="1" id="u15423" data-muse-uid="U15423" data-muse-type="img_frame"><!-- image -->
-          <img class="block ImageInclude" data-col-pos="1" id="u15423_img" data-src="images/img_8682-crop-u15423.jpg?crc=3906860651" data-hidpi-src="images/img_8682-crop-u15423_2x.jpg?crc=129163198" src="images/blank.gif?crc=4208392903" alt="" data-muse-src="images/img_8682-crop-u15423.jpg?crc=3906860651" data-heightwidthratio="0.75" data-image-width="284" data-image-height="213"/>
+          <img class="block ImageInclude" data-col-pos="1" id="u15423_img" data-src="images/img_8682-crop-u15423.jpg?crc=3831348522" data-hidpi-src="images/img_8682-crop-u15423_2x.jpg?crc=3974079027" src="images/blank.gif?crc=4208392903" alt="" data-muse-src="images/img_8682-crop-u15423.jpg?crc=3831348522" data-heightwidthratio="1.33201581027668" data-image-width="506" data-image-height="674"/>
          </div>
          <!-- /m_editable -->
          <!-- m_editable region-id="editable-static-tag-U15510-BP_568" template="index.html" data-type="image" data-ice-options="srcAttr=data-src" -->
          <div class="SSSlide invi clip_frame grpelem" data-col-pos="2" id="u15510" data-muse-uid="U15510" data-muse-type="img_frame"><!-- image -->
-          <img class="block ImageInclude" data-col-pos="2" id="u15510_img" data-src="images/img_2152-crop-u15510.jpg?crc=99223101" data-hidpi-src="images/img_2152-crop-u15510_2x.jpg?crc=3963178304" src="images/blank.gif?crc=4208392903" alt="" data-muse-src="images/img_2152-crop-u15510.jpg?crc=99223101" data-heightwidthratio="0.75" data-image-width="284" data-image-height="213"/>
+          <img class="block ImageInclude" data-col-pos="2" id="u15510_img" data-src="images/img_2152-crop-u15510.jpg?crc=4088191385" data-hidpi-src="images/img_2152-crop-u15510_2x.jpg?crc=4256356574" src="images/blank.gif?crc=4208392903" alt="" data-muse-src="images/img_2152-crop-u15510.jpg?crc=4088191385" data-heightwidthratio="1.33201581027668" data-image-width="506" data-image-height="674"/>
          </div>
          <!-- /m_editable -->
         </div>
@@ -194,7 +194,7 @@ if(typeof Muse == "undefined") window.Muse = {}; window.Muse.assets = {"required
          <!-- /m_editable -->
          <!-- m_editable region-id="editable-static-tag-U15510-BP_414" template="index.html" data-type="image" data-ice-options="srcAttr=data-src" -->
          <div class="SSSlide invi clip_frame grpelem temp_no_id" data-col-pos="2" data-muse-uid="U15510" data-muse-type="img_frame" data-orig-id="u15510"><!-- image -->
-          <img class="block ImageInclude temp_no_id" data-col-pos="2" data-src="images/img_2152-crop-u155102.jpg?crc=220232859" data-hidpi-src="images/img_2152-crop-u15510_2x2.jpg?crc=122755831" src="images/blank.gif?crc=4208392903" alt="" data-muse-src="images/img_2152-crop-u155102.jpg?crc=220232859" data-heightwidthratio="1.3306233062330624" data-image-width="369" data-image-height="491" data-orig-id="u15510_img"/>
+          <img class="block ImageInclude temp_no_id" data-col-pos="2" data-src="images/img_2152-crop-u155102.jpg?crc=4118340186" data-hidpi-src="images/img_2152-crop-u15510_2x2.jpg?crc=93239699" src="images/blank.gif?crc=4208392903" alt="" data-muse-src="images/img_2152-crop-u155102.jpg?crc=4118340186" data-heightwidthratio="1.3306233062330624" data-image-width="369" data-image-height="491" data-orig-id="u15510_img"/>
          </div>
          <!-- /m_editable -->
         </div>
@@ -228,17 +228,17 @@ if(typeof Muse == "undefined") window.Muse = {}; window.Muse.assets = {"required
         <div class="SlideShowContentPanel clearfix temp_no_id" data-col-pos="0" data-sizePolicy="fluidWidthHeight" data-pintopage="page_fixedCenter" data-orig-id="u15279"><!-- stack box -->
          <!-- m_editable region-id="editable-static-tag-U15280-BP_375" template="index.html" data-type="image" data-ice-options="srcAttr=data-src" -->
          <div class="SSSlide clip_frame grpelem temp_no_id" data-col-pos="0" data-muse-uid="U15280" data-muse-type="img_frame" data-sizePolicy="fluidWidthHeight" data-pintopage="page_fixedCenter" data-orig-id="u15280"><!-- image -->
-          <img class="block ImageInclude temp_no_id" data-col-pos="0" data-src="images/img_1945-crop-u152803.jpg?crc=416354519" data-hidpi-src="images/img_1945-crop-u15280_2x3.jpg?crc=139647793" src="images/blank.gif?crc=4208392903" alt="" data-muse-src="images/img_1945-crop-u152803.jpg?crc=416354519" data-heightwidthratio="1.328358208955224" data-image-width="335" data-image-height="445" data-orig-id="u15280_img"/>
+          <img class="block ImageInclude temp_no_id" data-col-pos="0" data-src="images/img_1945-crop-u152803.jpg?crc=4079918018" data-hidpi-src="images/img_1945-crop-u15280_2x3.jpg?crc=23441809" src="images/blank.gif?crc=4208392903" alt="" data-muse-src="images/img_1945-crop-u152803.jpg?crc=4079918018" data-heightwidthratio="1.3323353293413174" data-image-width="334" data-image-height="445" data-orig-id="u15280_img"/>
          </div>
          <!-- /m_editable -->
          <!-- m_editable region-id="editable-static-tag-U15423-BP_375" template="index.html" data-type="image" data-ice-options="srcAttr=data-src" -->
          <div class="SSSlide invi clip_frame grpelem temp_no_id" data-col-pos="1" data-muse-uid="U15423" data-muse-type="img_frame" data-sizePolicy="fluidWidthHeight" data-pintopage="page_fixedCenter" data-orig-id="u15423"><!-- image -->
-          <img class="block ImageInclude temp_no_id" data-col-pos="1" data-src="images/img_8682-crop-u154233.jpg?crc=4106843324" data-hidpi-src="images/img_8682-crop-u15423_2x3.jpg?crc=4141843310" src="images/blank.gif?crc=4208392903" alt="" data-muse-src="images/img_8682-crop-u154233.jpg?crc=4106843324" data-heightwidthratio="0.925" data-image-width="200" data-image-height="185" data-orig-id="u15423_img"/>
+          <img class="block ImageInclude temp_no_id" data-col-pos="1" data-src="images/img_8682-crop-u154233.jpg?crc=4249656399" data-hidpi-src="images/img_8682-crop-u15423_2x3.jpg?crc=30445286" src="images/blank.gif?crc=4208392903" alt="" data-muse-src="images/img_8682-crop-u154233.jpg?crc=4249656399" data-heightwidthratio="1.3323353293413174" data-image-width="334" data-image-height="445" data-orig-id="u15423_img"/>
          </div>
          <!-- /m_editable -->
          <!-- m_editable region-id="editable-static-tag-U15510-BP_375" template="index.html" data-type="image" data-ice-options="srcAttr=data-src" -->
          <div class="SSSlide invi clip_frame grpelem temp_no_id" data-col-pos="2" data-muse-uid="U15510" data-muse-type="img_frame" data-sizePolicy="fluidWidthHeight" data-pintopage="page_fixedCenter" data-orig-id="u15510"><!-- image -->
-          <img class="block ImageInclude temp_no_id" data-col-pos="2" data-src="images/img_2152-crop-u155103.jpg?crc=333734270" data-hidpi-src="images/img_2152-crop-u15510_2x3.jpg?crc=3940356396" src="images/blank.gif?crc=4208392903" alt="" data-muse-src="images/img_2152-crop-u155103.jpg?crc=333734270" data-heightwidthratio="0.925" data-image-width="200" data-image-height="185" data-orig-id="u15510_img"/>
+          <img class="block ImageInclude temp_no_id" data-col-pos="2" data-src="images/img_2152-crop-u155103.jpg?crc=235739483" data-hidpi-src="images/img_2152-crop-u15510_2x3.jpg?crc=205372777" src="images/blank.gif?crc=4208392903" alt="" data-muse-src="images/img_2152-crop-u155103.jpg?crc=235739483" data-heightwidthratio="1.3323353293413174" data-image-width="334" data-image-height="445" data-orig-id="u15510_img"/>
          </div>
          <!-- /m_editable -->
         </div>
@@ -281,7 +281,7 @@ if(typeof Muse == "undefined") window.Muse = {}; window.Muse.assets = {"required
          <!-- /m_editable -->
          <!-- m_editable region-id="editable-static-tag-U15510-BP_320" template="index.html" data-type="image" data-ice-options="srcAttr=data-src" -->
          <div class="SSSlide invi clip_frame grpelem temp_no_id" data-col-pos="2" data-muse-uid="U15510" data-muse-type="img_frame" data-orig-id="u15510"><!-- image -->
-          <img class="block ImageInclude temp_no_id" data-col-pos="2" data-src="images/img_2152-crop-u155104.jpg?crc=4028138231" data-hidpi-src="images/img_2152-crop-u15510_2x4.jpg?crc=372184848" src="images/blank.gif?crc=4208392903" alt="" data-muse-src="images/img_2152-crop-u155104.jpg?crc=4028138231" data-heightwidthratio="1.3298245614035087" data-image-width="285" data-image-height="379" data-orig-id="u15510_img"/>
+          <img class="block ImageInclude temp_no_id" data-col-pos="2" data-src="images/img_2152-crop-u155104.jpg?crc=501256770" data-hidpi-src="images/img_2152-crop-u15510_2x4.jpg?crc=3854613656" src="images/blank.gif?crc=4208392903" alt="" data-muse-src="images/img_2152-crop-u155104.jpg?crc=501256770" data-heightwidthratio="1.3298245614035087" data-image-width="285" data-image-height="379" data-orig-id="u15510_img"/>
          </div>
          <!-- /m_editable -->
         </div>
@@ -321,7 +321,7 @@ Muse.Utils.prepHyperlinks(true);/* body */
 Muse.Utils.resizeHeight('.popup_anchor.allow_click_through');/* resize height */
 Muse.Utils.makeButtonsVisibleAfterSettingMinWidth();/* body */
 Muse.Utils.initWidget('#slideshowu14843', ['#bp_infinity', '#bp_768'], function(elem) { var widget = new WebPro.Widget.ContentSlideShow(elem, {autoPlay:true,displayInterval:3000,slideLinkStopsSlideShow:false,transitionStyle:'fading',lightboxEnabled_runtime:false,shuffle:false,transitionDuration:1000,enableSwipe:false,elastic:'off',resumeAutoplay:true,resumeAutoplayInterval:3000,playOnce:false,autoActivate_runtime:false,isResponsive:true}); $(elem).data('widget', widget); return widget; });/* #slideshowu14843 */
-Muse.Utils.initWidget('#slideshowu15272', ['#bp_568', '#bp_414', '#bp_375', '#bp_320'], function(elem) { var widget = new WebPro.Widget.ContentSlideShow(elem, {autoPlay:true,displayInterval:3000,slideLinkStopsSlideShow:false,transitionStyle:'fading',lightboxEnabled_runtime:false,shuffle:false,transitionDuration:1000,enableSwipe:false,elastic:'off',resumeAutoplay:true,resumeAutoplayInterval:3000,playOnce:false,autoActivate_runtime:false,isResponsive:true}); $(elem).data('widget', widget); return widget; });/* #slideshowu15272 */
+Muse.Utils.initWidget('#slideshowu15272', ['#bp_568', '#bp_414', '#bp_375', '#bp_320'], function(elem) { var widget = new WebPro.Widget.ContentSlideShow(elem, {autoPlay:true,displayInterval:2500,slideLinkStopsSlideShow:false,transitionStyle:'fading',lightboxEnabled_runtime:false,shuffle:false,transitionDuration:1000,enableSwipe:false,elastic:'off',resumeAutoplay:true,resumeAutoplayInterval:2500,playOnce:false,autoActivate_runtime:false,isResponsive:true}); $(elem).data('widget', widget); return widget; });/* #slideshowu15272 */
 Muse.Utils.fullPage('#page');/* 100% height page */
 $( '.breakpoint' ).registerBreakpoint();/* Register breakpoints */
 Muse.Utils.transformMarkupToFixBrowserProblems();/* body */
